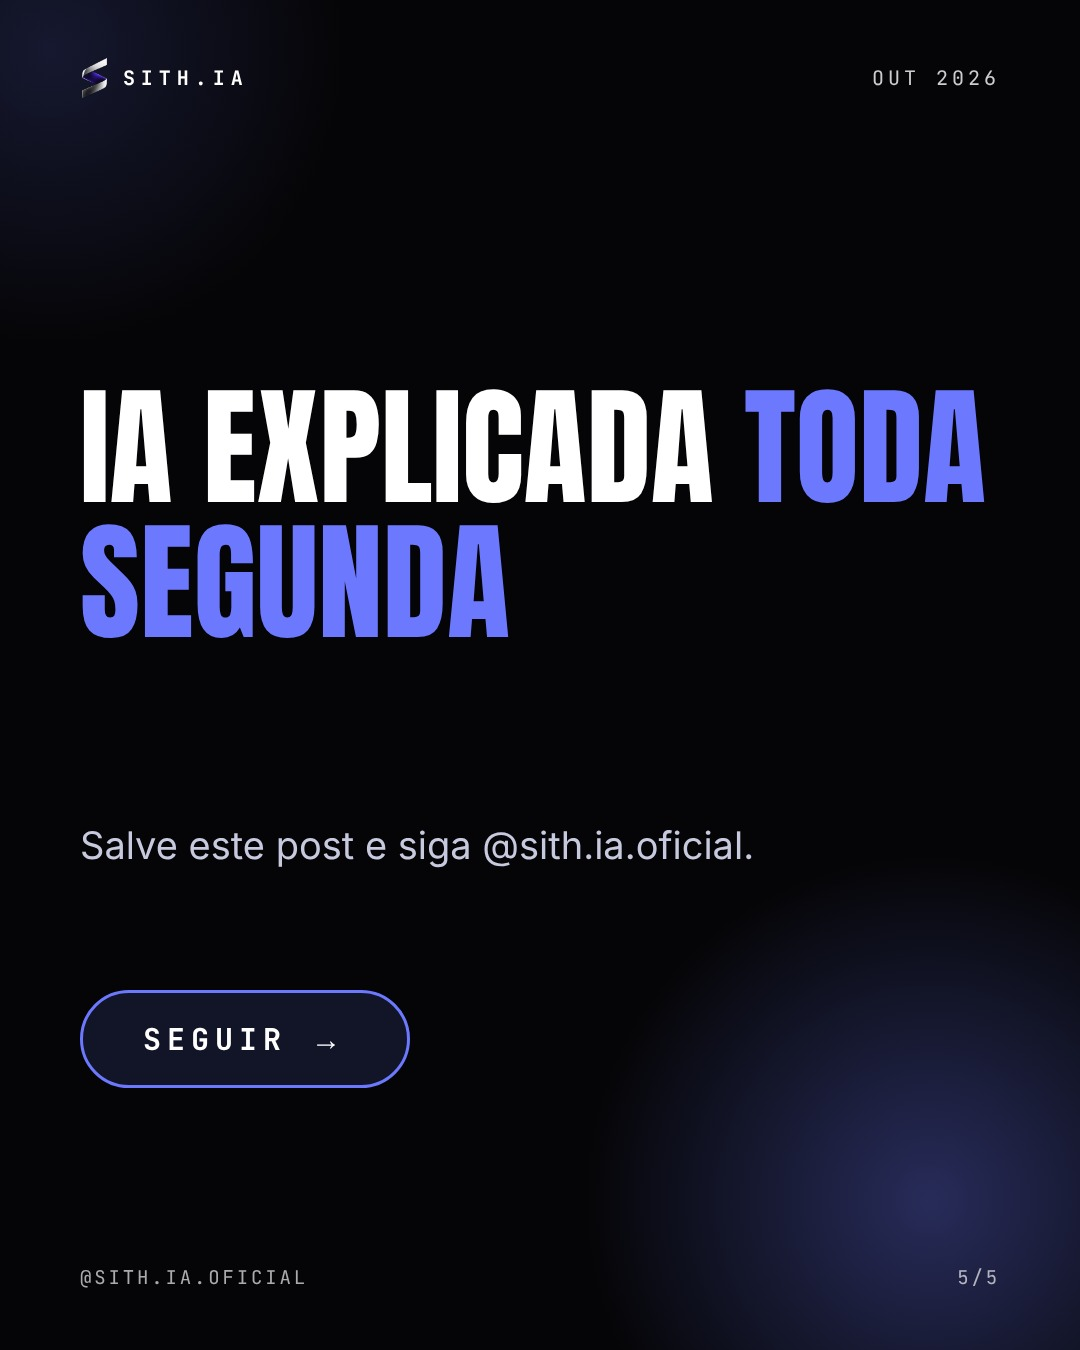
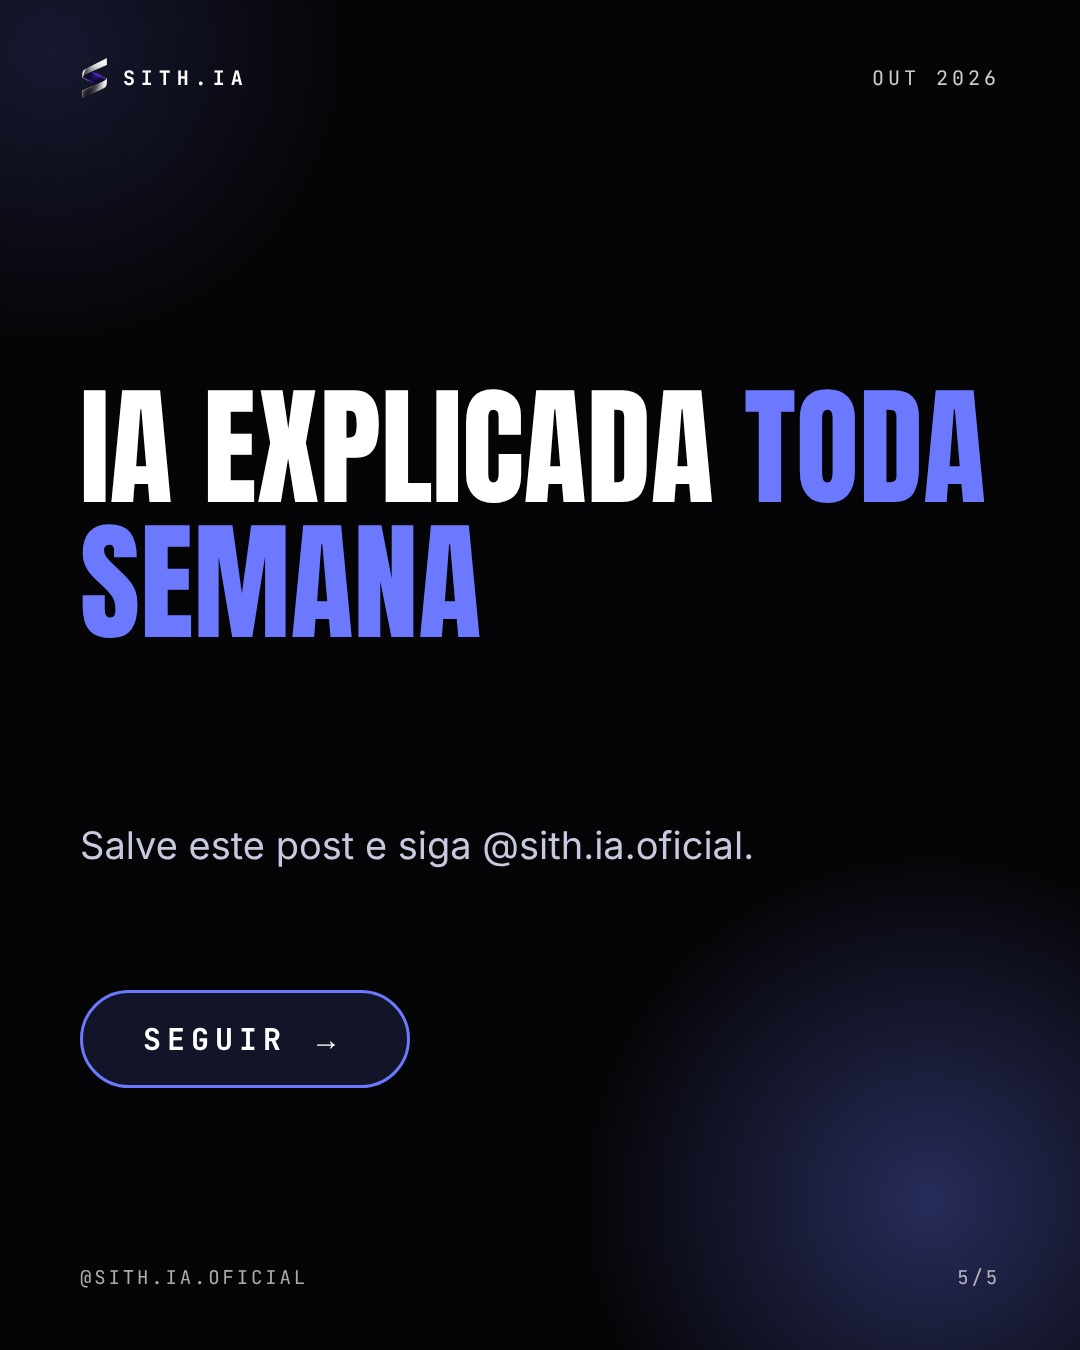
Estrategia diaria

Changed region(s): [[0.1833, 0.3733, 0.4889, 0.4978]]

diff --git a/CLAUDE.md b/CLAUDE.md
@@ -6,7 +6,12 @@ Idioma de trabalho e de todo o conteúdo: **português do Brasil**.
 - Quando o Nilton diz "sith", ele fala da **SITH.IA**: a empresa e o perfil do Instagram.
 - Grafia certa: **SITH.IA**. @ do Instagram: **@sith.ia.oficial**. Nunca escrever "SITH.AI" nem "sitth".
 
-## Grade do Instagram (3 colunas fixas)
+## Grade do Instagram (3 colunas fixas) — ESTRATÉGIA DIÁRIA desde 03/10/2026
+- **Um post por dia**, girando os 3 modelos na sequência: notícia → portfólio → prompt → notícia… (a grade de 3 colunas continua alinhada).
+- Horários (BRT, decisão do Nilton com base em pesquisa de horários de pico): **dias úteis 12h; sábado e domingo 10h**.
+- Primeira rodada: sáb 03/10 notícia, dom 04/10 portfólio, seg 05/10 prompt. Depois: ter 06 notícia, qua 07 portfólio, qui 08 prompt, e assim por diante.
+- Produzir em lotes (3 a 4 posts por vez) para nunca faltar post aprovado. Conteúdo/CTA não pode citar dia fixo ("toda segunda"); usar "toda semana" ou "todo dia".
+- (Abaixo, o texto antigo da grade semanal: valem as colunas, ignore "segunda, quarta, sexta" e "19h".)
 - Coluna 1: post de **prompt**. Coluna 2: **portfólio**. Coluna 3: **notícias de tecnologia**.
 - Ordem de publicação para manter as colunas: notícia, depois portfólio, depois prompt (o mais novo fica à esquerda). Sugestão: segunda, quarta, sexta.
 - Os 3 posts fixados ocupam a primeira linha; a grade só alinha se continuarem 3 fixados e a quantidade de posts não fixados for múltiplo de 3.
@@ -50,3 +55,13 @@ Aprendeu algo (erro, acerto, decisão)? Registre em `docs/erros-e-acertos/` usan
 - Pessoas nos posts são sempre **Nilton** e/ou **Bruno** (sócio), usando as fichas em `marca/personagens/` (ver o README de lá). Anexar a ficha no Gemini e conferir o rosto antes de usar.
 - Post de PORTFÓLIO (burger, estilo bastidor + peças em tela cheia) aprovado em 02/10/2026 como padrão visual da coluna 2.
 - Post de NOTÍCIA (OpenAI Astra/Sol, 5 slides, capa gerada com IA) aprovado em 02/10/2026 como primeiro modelo da coluna 3. Melhorar no próximo (capa em resolução maior).
+
+## Legendas (regra do Nilton, 03/10/2026)
+- Legenda nunca em bloco único. Estrutura: gancho (1 linha) → parágrafos curtos de 1–2 frases → chamada para ação em linhas separadas ("Salve este post.", "Siga @sith.ia.oficial…", "Chama na DM.") → fontes (só notícia) → **hashtags sempre por último**, separadas por linha em branco.
+- Listas curtas com "→". No máximo 1 emoji no gancho. Linhas em branco entre os blocos.
+- Aplicado nos 3 posts aprovados (prompt, portfólio, notícia).
+
+## Automação (03/10/2026)
+- Repositório público: github.com/nilton11junior-rgb/sithia-instagram. Robô: `.github/workflows/publish.yml` (a cada 30 min). Segredos `IG_USER_ID` e `IG_ACCESS_TOKEN` no GitHub. Token vale 60 dias: renovar antes de ~01/12/2026.
+- Teste real feito em 03/10: o robô publicou o post de prompt no @sith.ia.oficial (funcionou). Nilton apagou o post à mão; data devolvida para 09/10 e `estado/published.json` zerado.
+- O robô grava `estado/published.json` no GitHub. Antes de qualquer `git push` da pasta local, fazer `git pull`.
